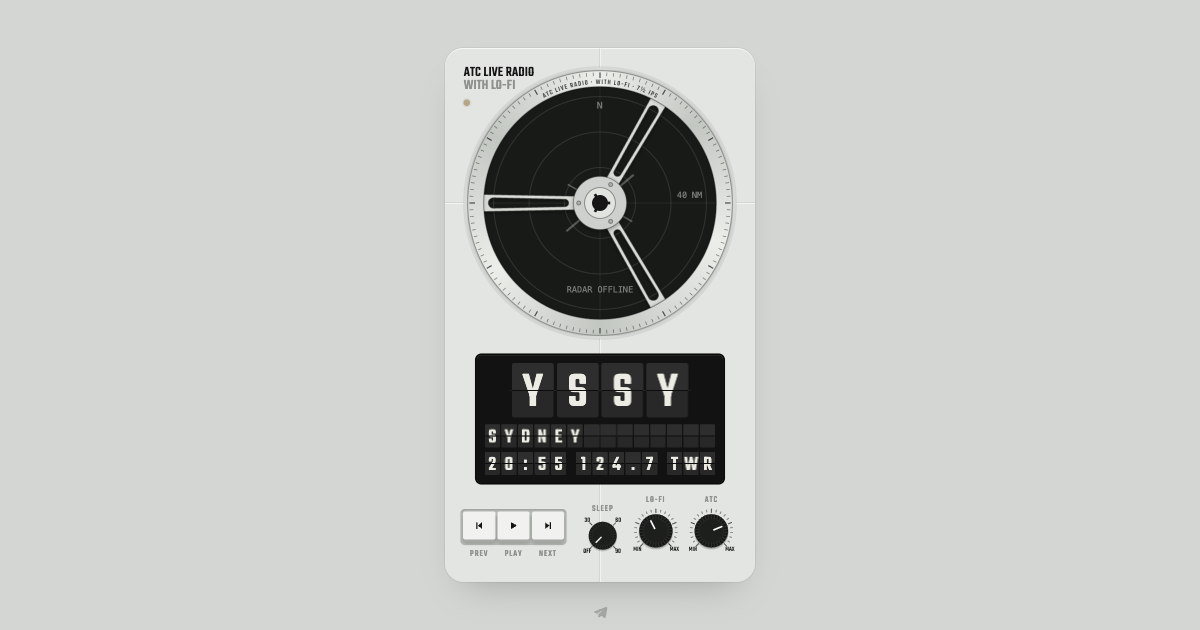
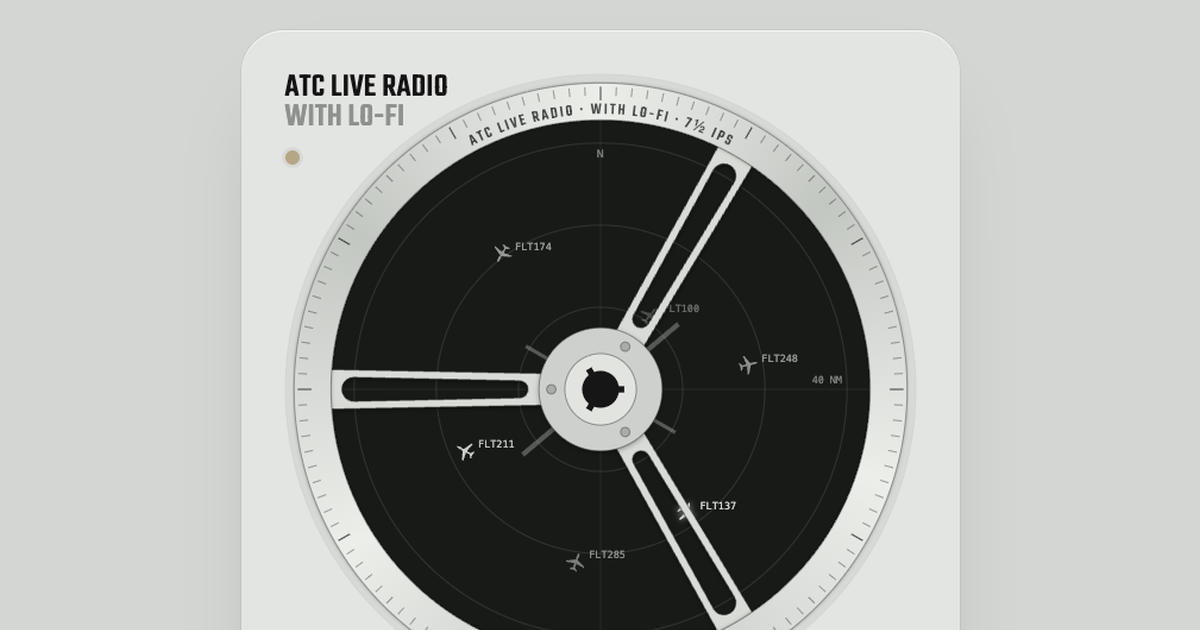
v3: PWA — SW network-first, иконка-бобина, превью, без вертикального шва

Changed region(s): [[0.2158, 0.0905, 0.7708, 1.0], [0.6475, 0.9651, 0.6783, 0.9952], [0.2158, 0.2413, 0.2467, 0.2714]]

diff --git a/v3/sw.js b/v3/sw.js
@@ -1,5 +1,6 @@
 // Service worker ATC Live Radio v3. Лежит в v3/, поэтому его scope — эта папка
 // (на пробном этапе /lofiatcradio/v3/); сервис-воркер v2 в родительской папке не затрагивается.
+// CACHE нужно поднимать при каждом изменении списка SHELL.
 const CACHE = 'lofiatc-v3-1';
 
 const SHELL = [
@@ -36,10 +37,12 @@ const SHELL = [
 
 // Эфир, лофи-поток и радар — всегда напрямую, мимо кеша.
 const BYPASS_HOSTS = ['liveatc.net', 'laut.fm', 'radar.afood.pro'];
+const NETWORK_TIMEOUT_MS = 4000;
 
 self.addEventListener('install', (event) => {
-  event.waitUntil(caches.open(CACHE).then((cache) => cache.addAll(SHELL)));
-  self.skipWaiting();
+  event.waitUntil(
+    caches.open(CACHE).then((cache) => cache.addAll(SHELL)).then(() => self.skipWaiting()),
+  );
 });
 
 self.addEventListener('activate', (event) => {
@@ -50,11 +53,15 @@ self.addEventListener('activate', (event) => {
   );
 });
 
-async function networkFirst(request) {
+// Всё своё — сначала сеть (чтобы после выката файлы не смешивались по версиям),
+// при сбое или через 4 с — кеш. Обновление кеша живёт до конца через waitUntil.
+async function networkFirst(event) {
+  const { request } = event;
   const cache = await caches.open(CACHE);
+  const timeout = new Promise((_, reject) => setTimeout(() => reject(new Error('timeout')), NETWORK_TIMEOUT_MS));
   try {
-    const response = await fetch(request);
-    if (response.ok) cache.put(request, response.clone());
+    const response = await Promise.race([fetch(request), timeout]);
+    if (response.ok) event.waitUntil(cache.put(request, response.clone()));
     return response;
   } catch (err) {
     const cached = await cache.match(request, { ignoreSearch: true });
@@ -63,27 +70,11 @@ async function networkFirst(request) {
   }
 }
 
-async function staleWhileRevalidate(request) {
-  const cache = await caches.open(CACHE);
-  const cached = await cache.match(request);
-  const refresh = fetch(request)
-    .then((response) => {
-      if (response.ok) cache.put(request, response.clone());
-      return response;
-    })
-    .catch(() => null);
-  if (cached) return cached;
-  const response = await refresh;
-  return response || Response.error();
-}
-
 self.addEventListener('fetch', (event) => {
   const { request } = event;
   if (request.method !== 'GET' || request.headers.has('range')) return;
   const url = new URL(request.url);
   if (BYPASS_HOSTS.some((h) => url.hostname === h || url.hostname.endsWith('.' + h))) return;
   if (url.origin !== self.location.origin) return;
-
-  const isHtml = request.mode === 'navigate' || (request.headers.get('accept') || '').includes('text/html');
-  event.respondWith(isHtml ? networkFirst(request) : staleWhileRevalidate(request));
+  event.respondWith(networkFirst(event));
 });

diff --git a/v3/css/device.css b/v3/css/device.css
@@ -100,20 +100,10 @@ body {
   }
 }
 
-/* швы панелей крест-накрест: вертикальный по центру, горизонтальный — через центр катушки */
-.device::before {
-  content: '';
-  position: absolute;
-  top: 0; bottom: 0; left: 50%;
-  width: 2px;
-  margin-left: -1px;
-  background: linear-gradient(to right, var(--seam-dark) 50%, var(--seam-light) 50%);
-  pointer-events: none;
-}
-
+/* шов панелей: горизонтальный, через центр катушки */
 /* всё на корпусе лежит поверх швов: швы видны только на самой панели */
 .reel-cell > .window, .board, .controls { position: relative; z-index: 1; }
-.device::before, .reel-cell::before { z-index: 0; }
+.reel-cell::before { z-index: 0; }
 
 .reel-cell::before {
   content: '';

diff --git a/v3/index.html b/v3/index.html
@@ -12,6 +12,7 @@
   <meta property="og:title" content="ATC Live Radio">
   <meta property="og:description" content="Lo-fi music with live air traffic control.">
   <meta property="og:image" content="https://afoodpro.github.io/lofiatcradio/v3/og-image.png">
+  <meta property="og:image:type" content="image/png">
   <meta property="og:image:width" content="1200">
   <meta property="og:image:height" content="630">
   <meta name="twitter:card" content="summary_large_image">
